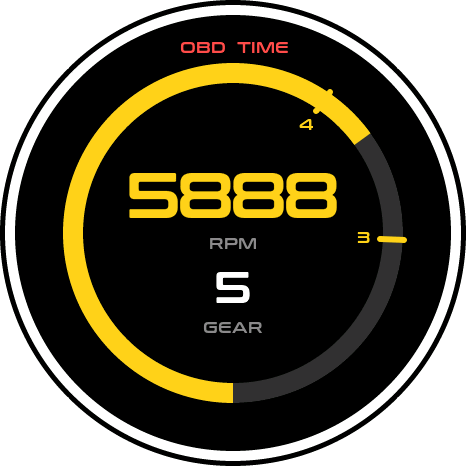
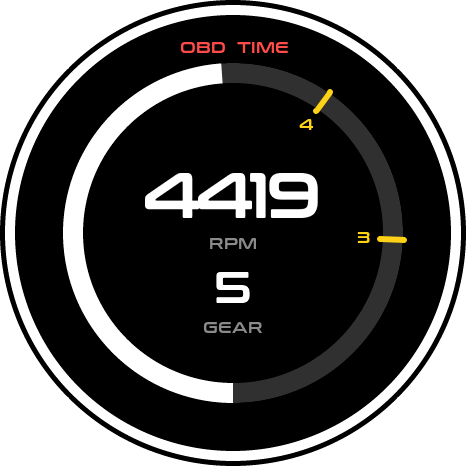
Derive downshift preview from the production ZD8 drivetrain

Changed region(s): [[0.1202, 0.1202, 0.8112, 0.8712], [0.2704, 0.3605, 0.721, 0.4807]]

diff --git a/simulator/sim_ui_port.c b/simulator/sim_ui_port.c
@@ -135,29 +135,6 @@ static nvs_user_cfg_t s_sim_cfg = {
     .trip_merge_timeout_min = 5,
 };
 
-static vehicle_profile_t s_vehicles[] = {
-    {
-        .name = "OBD2 GENERIC", .final_drive_ratio = 4.10f,
-        .tire_rolling_radius_m = 0.315f, .gear_count = 6,
-        .gear_ratios = {0, 3.500f, 2.000f, 1.400f, 1.100f, 0.900f, 0.750f},
-        .has_boost = false,
-    },
-    [VEHICLE_PROFILE_ZD8_INDEX] = {
-        .name = "SUBARU BRZ ZD8", .final_drive_ratio = 4.10f,
-        .tire_rolling_radius_m = 0.315f, .gear_count = 6,
-        .gear_ratios = {0, 3.626f, 2.188f, 1.541f, 1.213f, 1.000f, 0.767f},
-        .has_boost = false,
-    },
-    [VEHICLE_PROFILE_ZC6_INDEX] = {
-        .name = "SUBARU BRZ ZC6", .final_drive_ratio = 4.10f,
-        .tire_rolling_radius_m = 0.314f, .gear_count = 6,
-        .gear_ratios = {0, 3.626f, 2.188f, 1.541f, 1.213f, 1.000f, 0.767f},
-        .has_boost = false,
-    },
-    [VEHICLE_PROFILE_ZC6_AT_INDEX] = {.name = "SUBARU BRZ ZC6 AT"},
-    [VEHICLE_PROFILE_ZD8_AT_INDEX] = {.name = "SUBARU BRZ ZD8 AT"},
-};
-
 static const ui_theme_t s_sim_theme = {
     .id = "default",
     .name = "DEFAULT",
@@ -423,21 +400,9 @@ void nvs_intro_enable_set(uint8_t en) { s_intro = en; }
 uint8_t nvs_device_position_get(void) { return s_position; }
 void nvs_device_position_set(uint8_t pos) { s_position = pos; }
 
-const vehicle_profile_t *vehicle_profile_get_all(uint8_t *count)
-{
-    if (count) *count = (uint8_t)(sizeof(s_vehicles) / sizeof(s_vehicles[0]));
-    return s_vehicles;
-}
-const vehicle_profile_t *vehicle_profile_get_active(void)
-{
-    unsigned index = s_sim_cfg.vehicle_profile_idx;
-    if (index >= sizeof(s_vehicles) / sizeof(s_vehicles[0])) index = 0;
-    return &s_vehicles[index];
-}
-void vehicle_profile_set_active(uint8_t index)
-{
-    if (index < sizeof(s_vehicles) / sizeof(s_vehicles[0])) s_sim_cfg.vehicle_profile_idx = index;
-}
+// The native renderer uses the firmware's profiles; it has no ECU cache to reset.
+void obd_data_reset_temp_cache(void) {}
+void obd_data_reset_gear(void) {}
 
 size_t sim_strlcat(char *dst, const char *src, size_t size)
 {
@@ -593,6 +558,7 @@ EMPTY_EVENT(ui_event_obd_prot_background)
 
 void sim_ui_create_pages(void)
 {
+    vehicle_profile_set_active(s_sim_cfg.vehicle_profile_idx);
     ui_ScreenPageLogo_screen_init();
     ui_ScreenPageGear_screen_init();
     ui_ScreenPageRpm_screen_init();

diff --git a/simulator/native_sim.c b/simulator/native_sim.c
@@ -15,6 +15,7 @@
 #include "sim_ui_port.h"
 #include "export_path/ui_page_items.h"
 #include "export_path/ui_disp_item.h"
+#include "app_obd_dsp/vehicle_profiles.h"
 #include "bsp_obd_dsp/gauge_layout.h"
 #include "bsp_obd_dsp/nvs_storage.h"
 
@@ -358,21 +359,30 @@ static bool elm_pid(const char *pid, int *a, int *b)
     return true;
 }
 
+static float rpm_for_gear(const vehicle_profile_t *profile, int speed, int gear)
+{
+    return speed * vehicle_profile_calc_constant(profile) *
+           profile->final_drive_ratio * profile->gear_ratios[gear];
+}
+
 static int estimate_gear(int rpm, int speed)
 {
     if (speed < 3 || rpm < 500) return 0;
-    static const double rpm_per_kmh[] = {125.4, 75.7, 53.3, 41.9, 34.6, 26.5};
-    double ratio = (double)rpm / speed;
+
+    const vehicle_profile_t *profile = vehicle_profile_get_active();
     int best = 0;
-    double best_error = 1e9;
-    for (int i = 0; i < 6; ++i) {
-        double error = fabs(ratio - rpm_per_kmh[i]);
+    float best_error = profile->gear_tolerance;
+    for (int gear = 1; gear <= profile->gear_count; ++gear) {
+        float expected = rpm_for_gear(profile, speed, gear);
+        if (expected <= 0) continue;
+
+        float error = fabsf(rpm - expected) / expected;
         if (error < best_error) {
             best_error = error;
-            best = i + 1;
+            best = gear;
         }
     }
-    return best_error / rpm_per_kmh[best - 1] < 0.22 ? best : 0;
+    return best;
 }
 
 static void update_from_elm(void)
@@ -616,9 +626,12 @@ static bool check_speed_and_rpm_readouts(void)
 
 static bool export_fixed_editor_frames(void)
 {
-    g_data.rpm = 5888;
+    // Derive the displayed RPM and the lower-gear marks from the same drivetrain.
+    vehicle_profile_set_active(VEHICLE_PROFILE_ZD8_INDEX);
+    const vehicle_profile_t *profile = vehicle_profile_get_active();
     g_data.speed = 128;
     g_data.gear = 5;
+    g_data.rpm = (int)lroundf(rpm_for_gear(profile, g_data.speed, g_data.gear));
     update_ui();
 
     sim_ui_show_page(SIM_PAGE_GEAR);

diff --git a/simulator/stubs/app_obd_dsp/vehicle_profiles.h b/simulator/stubs/app_obd_dsp/vehicle_profiles.h
@@ -1,25 +1,4 @@
 #pragma once
 
-#include <stdbool.h>
-#include <stdint.h>
-
-#define VEHICLE_MAX_GEARS 9
-#define VEHICLE_PROFILE_ZC6_INDEX 1
-#define VEHICLE_PROFILE_ZD8_INDEX 4
-#define VEHICLE_PROFILE_DEFAULT_INDEX VEHICLE_PROFILE_ZD8_INDEX
-#define VEHICLE_PROFILE_ZC6_AT_INDEX 16
-#define VEHICLE_PROFILE_ZD8_AT_INDEX 17
-#define VEHICLE_PROFILE_SELECTABLE_COUNT 4
-
-typedef struct {
-    const char *name;
-    float final_drive_ratio;
-    float tire_rolling_radius_m;
-    uint8_t gear_count;
-    float gear_ratios[VEHICLE_MAX_GEARS];
-    bool has_boost;
-} vehicle_profile_t;
-
-const vehicle_profile_t *vehicle_profile_get_all(uint8_t *count);
-const vehicle_profile_t *vehicle_profile_get_active(void);
-void vehicle_profile_set_active(uint8_t index);
+// Share the firmware profile types and API with the native renderer.
+#include "../../../main/app_obd_dsp/vehicle_profiles.h"

diff --git a/README.md b/README.md
@@ -176,7 +176,7 @@ flowchart LR
 | 🗓 **清晰的月度归档** | 行程和各类账目按月份分隔，记账月份同时显示记录数量与小计，长时间使用后仍便于查找。 |
 | 📱 **自动连接与后台同步** | 绑定后可由系统 BLE 唤醒 App，优先为仪表授时，再同步车辆快照和历史行程；驾驶时常驻通知会直接显示时长与已行驶里程。 |
 | ⚙ **仪表启动与等待通知** | 手机“仪表设置”可选择仪表默认启动页与默认朝向（0°、90°、180°、270°，相对原安装方向），保存后下次上电生效；需升级仪表固件至 4.1.3。Android 未连接仪表时，常驻卡片显示“停车中”、已启用的里程与估算续航（最近同步数据）；“通知管理”提供系统通知设置入口及年审、保险、保养分项提醒开关，前台自动连接服务保持运行。 |
-| 🎚 **仪表页面设置（Android 试用版）** | “版本与设置”固定为第 1 页，其余页面可以全部移除或重新添加，最多编排 20 个。三槽位信息、五槽位信息、图表和指针可重复添加，每份独立选值；专用表盘每种限一份。固件 4.1.5-layout.5 的三槽位信息页使用仪表原有的 Conthrax 字体，沿左侧圆弧排列大字代号，中间显示读数，右侧单位放大并纵向对齐，顶部为 OBD 和 TIME 指示灯留出空间。固件 4.1.5-layout.6 的五槽位信息页也使用 Conthrax 大字显示代号、读数和单位，较长读数自动缩小以完整显示。固件 4.1.5-layout.7 将指针刻度盘扩大到 432 像素，趋势图扩大到 384 × 198 像素，两页均使用 Conthrax 大字读数。固件 4.1.5-layout.8 将转速与车速的主读数从 56 像素增至 64 像素。固件 4.1.5-layout.9 放大“版本与设置”页的总里程，下方显示车辆通过 OBD 回报的剩余油量百分比，暂无读数时显示「--%」。固件 4.1.5-layout.10 将油量百分比放大至 32 像素，显示值降至 25% 或更低时以黄色提示。在“仪表设置 → 仪表页面设置”可离线编辑，左右滑动预览默认主题的 LVGL 画面，重连后自动同步。重复表盘与仅保留版本页需配套固件 4.1.5-layout.2。 |
+| 🎚 **仪表页面设置（Android 试用版）** | “版本与设置”固定为第 1 页，其余页面可以全部移除或重新添加，最多编排 20 个。三槽位信息、五槽位信息、图表和指针可重复添加，每份独立选值；专用表盘每种限一份。固件 4.1.5-layout.5 的三槽位信息页使用仪表原有的 Conthrax 字体，沿左侧圆弧排列大字代号，中间显示读数，右侧单位放大并纵向对齐，顶部为 OBD 和 TIME 指示灯留出空间。固件 4.1.5-layout.6 的五槽位信息页也使用 Conthrax 大字显示代号、读数和单位，较长读数自动缩小以完整显示。固件 4.1.5-layout.7 将指针刻度盘扩大到 432 像素，趋势图扩大到 384 × 198 像素，两页均使用 Conthrax 大字读数。固件 4.1.5-layout.8 将转速与车速的主读数从 56 像素增至 64 像素。固件 4.1.5-layout.9 放大“版本与设置”页的总里程，下方显示车辆通过 OBD 回报的剩余油量百分比，暂无读数时显示「--%」。固件 4.1.5-layout.10 将油量百分比放大至 32 像素，显示值降至 25% 或更低时以黄色提示。在“仪表设置 → 仪表页面设置”可离线编辑，左右滑动预览默认主题的 LVGL 画面，重连后自动同步。Android 4.6.8-layout.12 的挡位与转速预览以 BRZ ZD8 6MT 的同一车速生成当前转速和降挡标记。重复表盘与仅保留版本页需配套固件 4.1.5-layout.2。 |
 | 🎛 **手机端车辆管理** | 在 App 中切换 ZD8/ZC6、调整 10%～100% 日间亮度、校准车辆里程、控制首页卡片，并把设置发送到仪表后回读确认。新版设置按“车辆 / 驾驶 / 应用”归类，应用栏底部保留经典设置入口。 |
 | ✨ **统一的新版界面** | 首页、驾驶足迹、记账、设置、详情页和弹窗采用统一的圆角卡片、状态主视觉与导航层级；App 恢复原有系统字体显示方式；新版首页仍可在车辆设置中回退到经典布局。 |
 | 💬 **问题反馈** | 在“设置 → 应用”中生成脱敏诊断摘要并打开 [GitHub Issues](https://github.com/sisi4376/BRZ-Garage/issues/new)；提交前可以检查和修改全部内容，也可复制反馈模板，不会自动上传车辆记录、账目或完整蓝牙地址。 |
